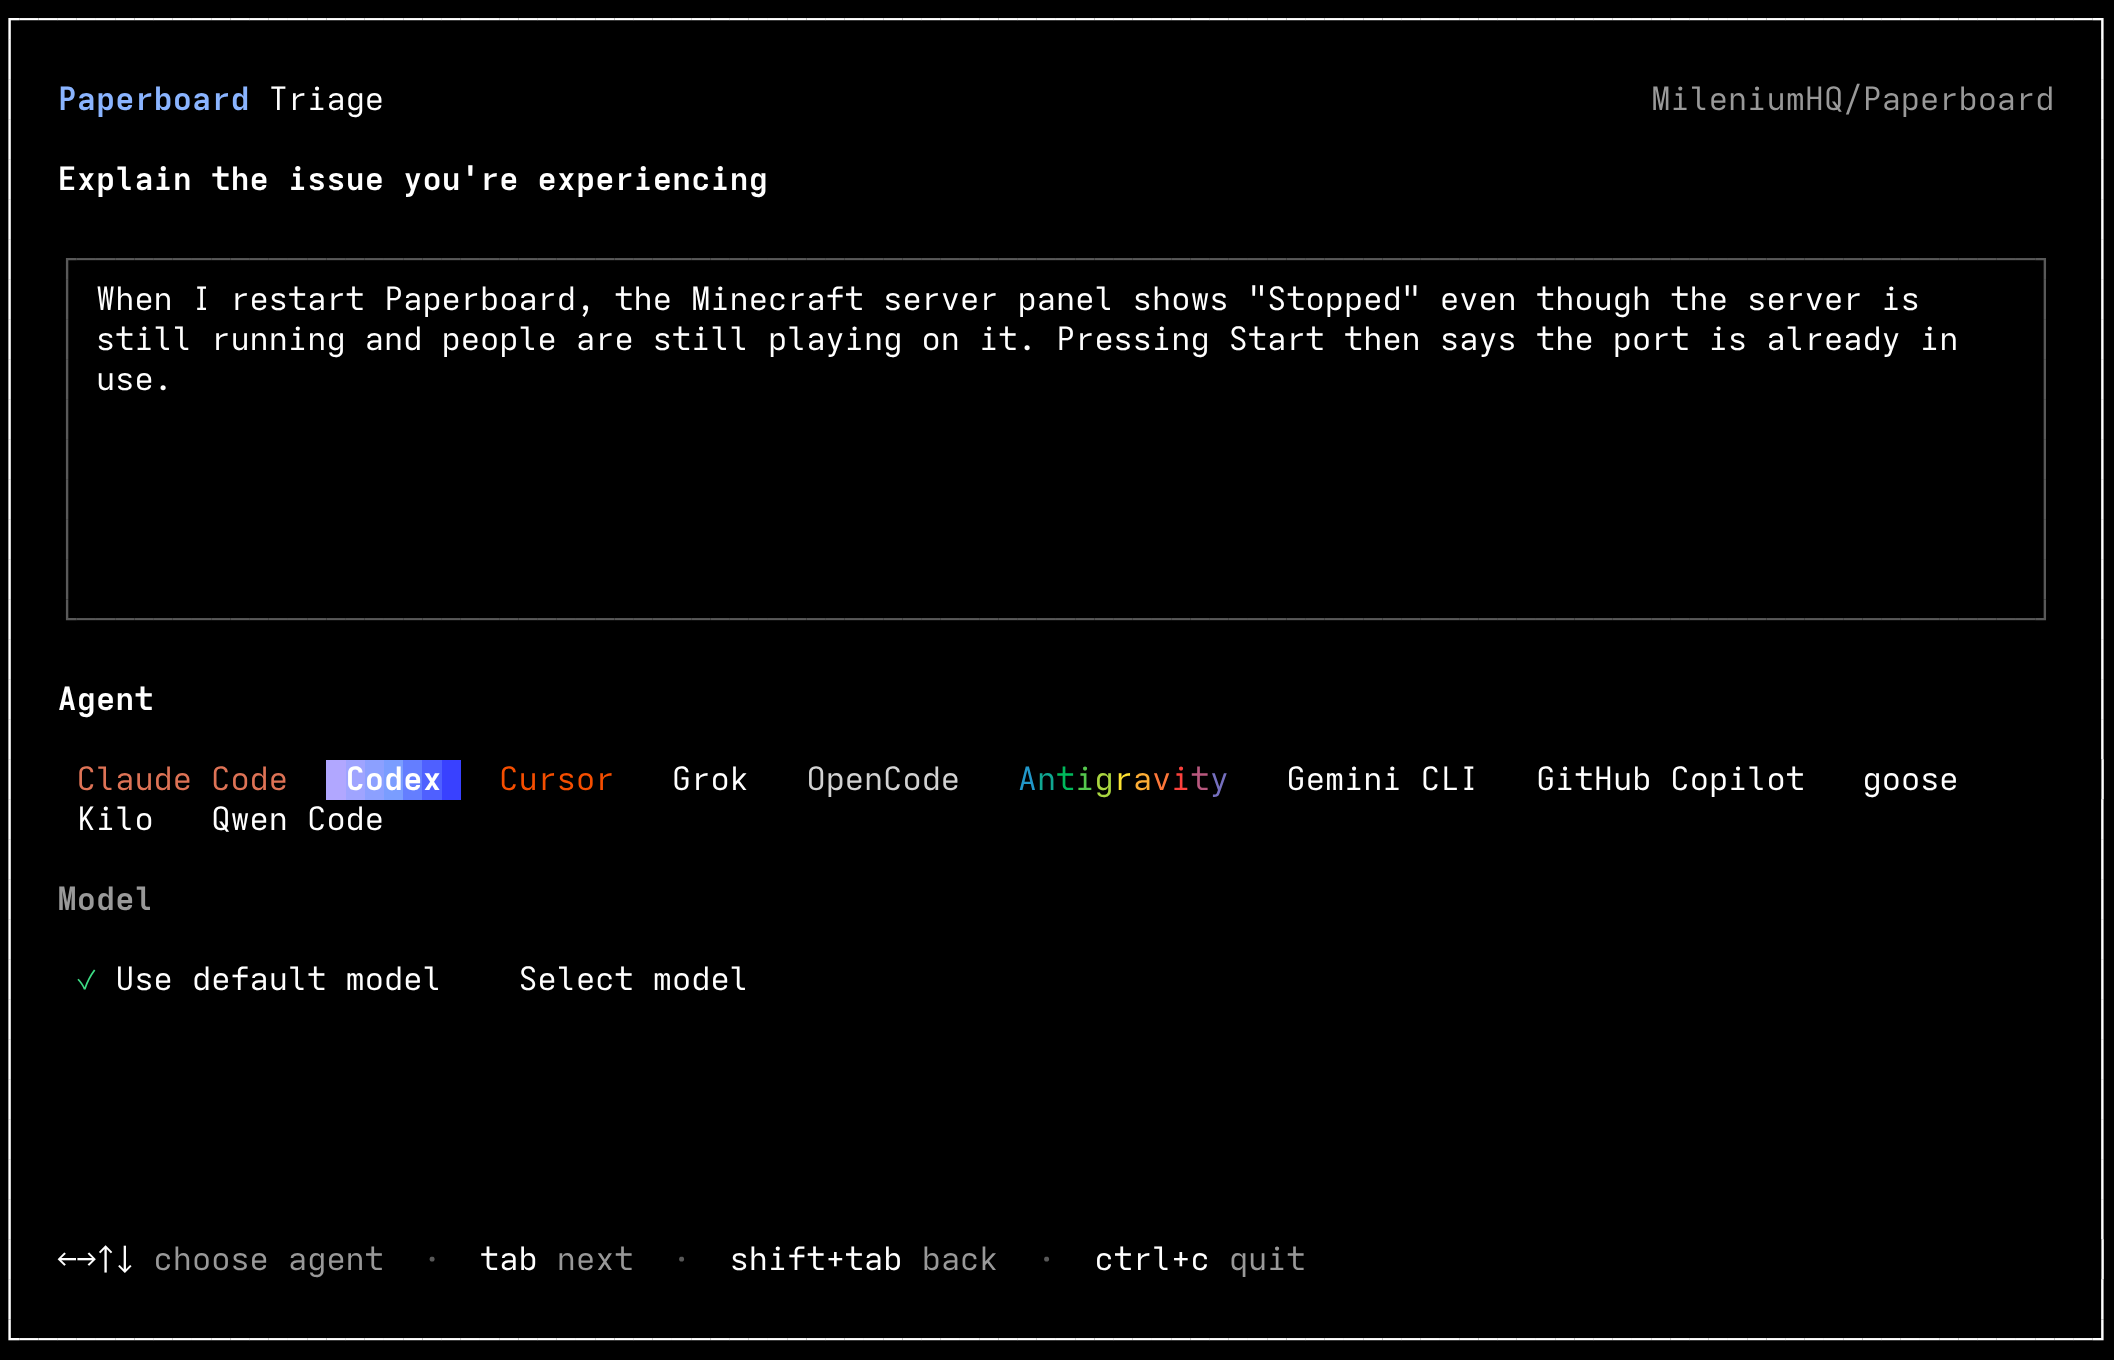
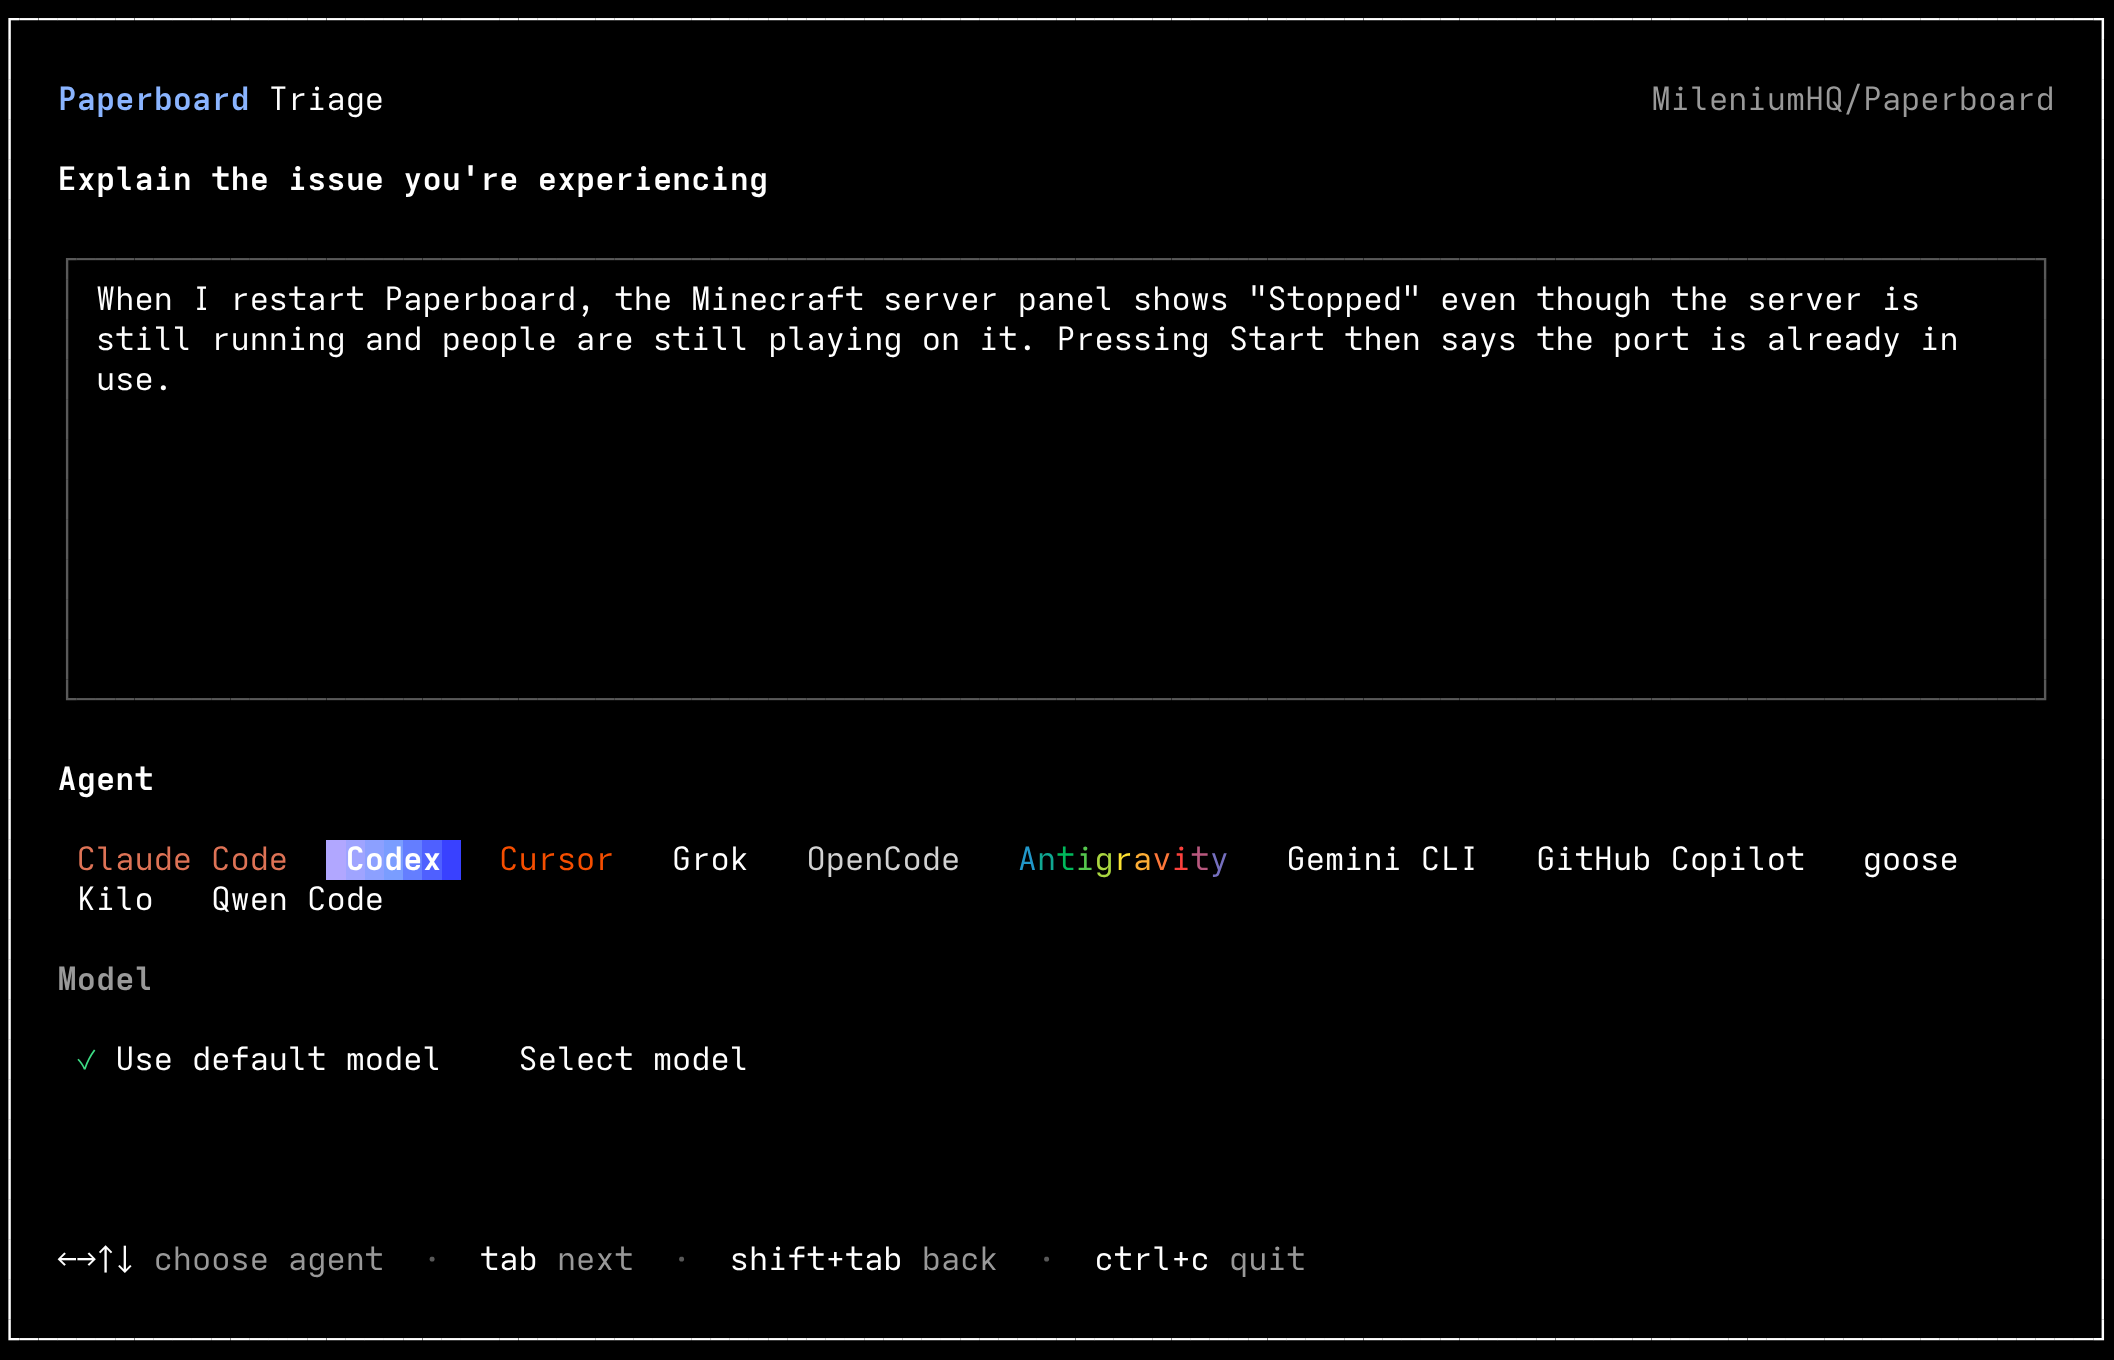
docs: run trissue with npx, pnpm, yarn or bunx
The README said `bunx trissue`, but the command now runs on Node 20+ too,
so the instructions lead with npx and list every runner. The screenshots
are rendered again from the new interface.

diff --git a/README.md b/README.md
@@ -4,8 +4,21 @@ Have the coding agent already on your computer find the source of an issue and
 write it up, then file it, copy it, or send it wherever the project wants.
 
 ```sh
-bunx trissue MileniumHQ/Paperboard
+npx trissue MileniumHQ/Paperboard
 ```
+
+It runs on Node 20 or newer, or Bun, so use whichever runner you already have:
+
+```sh
+npx trissue MileniumHQ/Paperboard        # npm
+pnpm dlx trissue MileniumHQ/Paperboard   # pnpm
+yarn dlx trissue MileniumHQ/Paperboard   # Yarn 2 or newer
+bunx trissue MileniumHQ/Paperboard       # Bun
+```
+
+Yarn 4.18 and newer hold back packages for a day after they're published. If
+`yarn dlx` says a version is quarantined, use another runner or try again the
+next day.
 
 1. trissue downloads the repo and warns you before anything else: an agent is
    about to read it, so you should trust it.
@@ -132,7 +145,7 @@ into rows. trissue-embedded runs on Node 20+, Bun and Electron.
 
 | Package | What it is |
 |---|---|
-| [`trissue`](packages/cli) | The command and its terminal interface. Needs Bun 1.3.14 or newer. |
+| [`trissue`](packages/cli) | The command and its terminal interface. Runs on Node 20+ or Bun. |
 | [`trissue-embedded`](packages/embedded) | The engine: agents, config, prompts, sending. No interface. |
 
 ## Development
@@ -145,8 +158,9 @@ bun run screenshots      # renders every screen to screenshots/ (the README's ar
 bun run typecheck
 ```
 
-The interface is built with [OpenTUI](https://github.com/anomalyco/opentui)
-and Solid.
+The interface is built with [Ink](https://github.com/vadimdemedes/ink) and
+React, in plain JavaScript, so it runs anywhere Node 20+ or Bun does. Building
+and the screenshots use Bun.
 
 ## License
 

diff --git a/packages/cli/README.md b/packages/cli/README.md
@@ -4,8 +4,21 @@ Have the coding agent already on your computer find the source of an issue and
 write it up, then file it, copy it, or send it wherever the project wants.
 
 ```sh
-bunx trissue MileniumHQ/Paperboard
+npx trissue MileniumHQ/Paperboard
 ```
+
+It runs on Node 20 or newer, or Bun, so use whichever runner you already have:
+
+```sh
+npx trissue MileniumHQ/Paperboard        # npm
+pnpm dlx trissue MileniumHQ/Paperboard   # pnpm
+yarn dlx trissue MileniumHQ/Paperboard   # Yarn 2 or newer
+bunx trissue MileniumHQ/Paperboard       # Bun
+```
+
+Yarn 4.18 and newer hold back packages for a day after they're published. If
+`yarn dlx` says a version is quarantined, use another runner or try again the
+next day.
 
 1. trissue downloads the repo and warns you before anything else: an agent is
    about to read it, so you should trust it.
@@ -125,7 +138,7 @@ into rows. trissue-embedded runs on Node 20+, Bun and Electron.
 
 | Package | What it is |
 |---|---|
-| [`trissue`](packages/cli) | The command and its terminal interface. Needs Bun 1.3.14 or newer. |
+| [`trissue`](packages/cli) | The command and its terminal interface. Runs on Node 20+ or Bun. |
 | [`trissue-embedded`](packages/embedded) | The engine: agents, config, prompts, sending. No interface. |
 
 ## Development
@@ -138,8 +151,9 @@ bun run screenshots      # renders every screen to screenshots/
 bun run typecheck
 ```
 
-The interface is built with [OpenTUI](https://github.com/anomalyco/opentui)
-and Solid.
+The interface is built with [Ink](https://github.com/vadimdemedes/ink) and
+React, in plain JavaScript, so it runs anywhere Node 20+ or Bun does. Building
+and the screenshots use Bun.
 
 ## License
 
